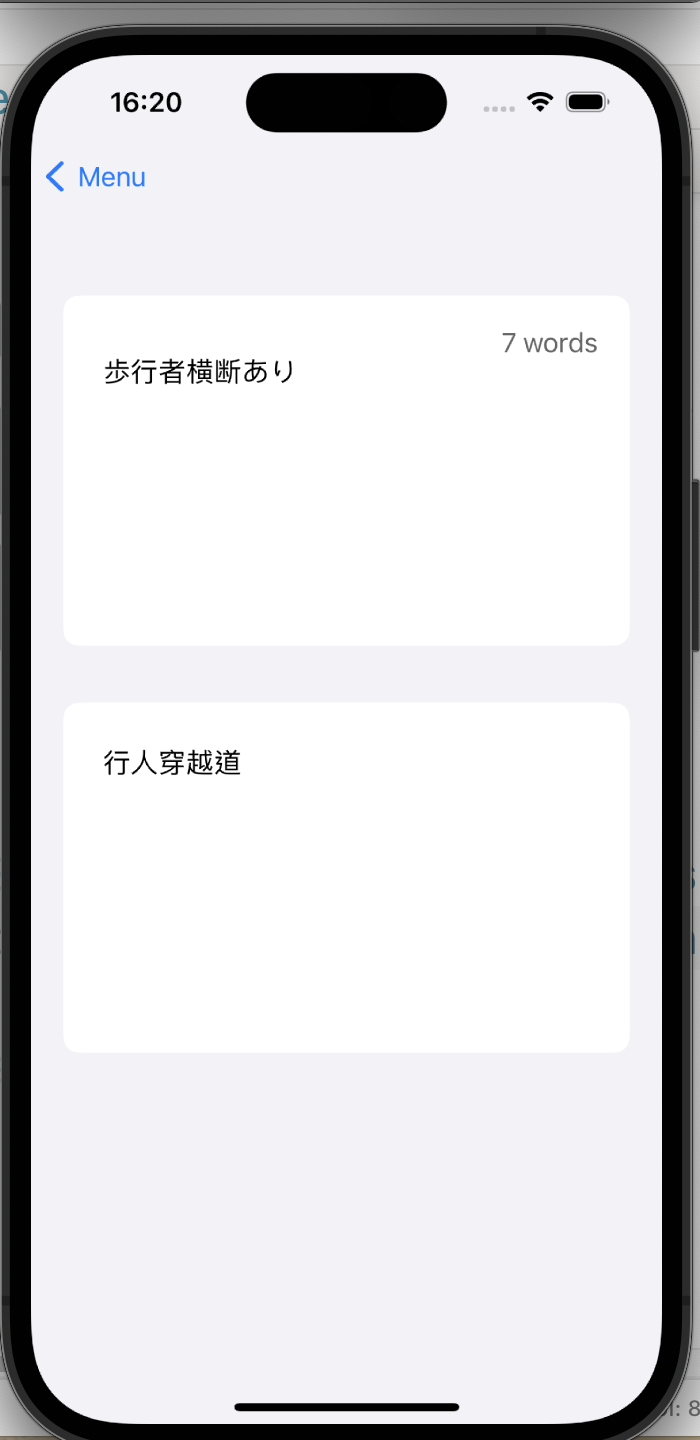
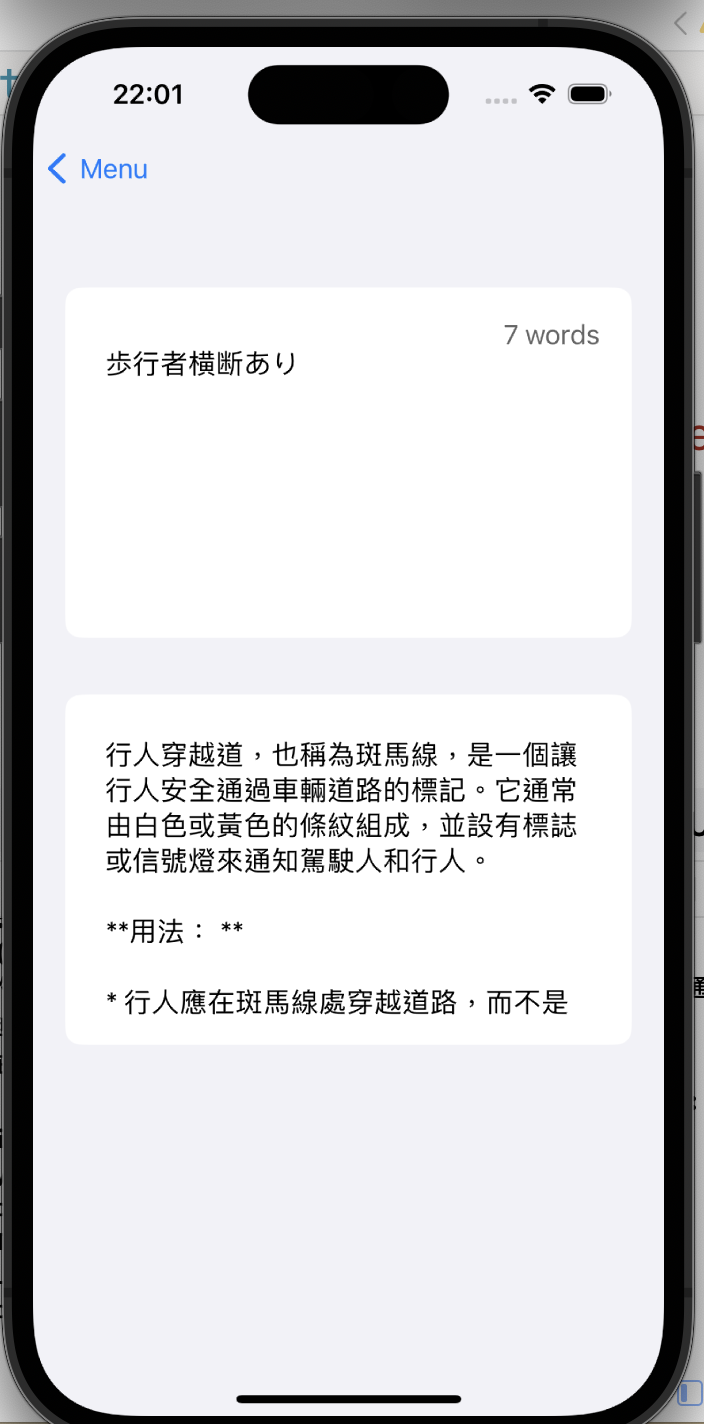
finish translation

diff --git a/Anki/View/Settings/SettingsView.swift b/Anki/View/Settings/SettingsView.swift
@@ -13,26 +13,40 @@ struct SettingsView: View {
 	
     var body: some View {
         Form {
-			Picker(selection: $settingViewModel.settings.schemeMode) {
-                Text("Auto").tag(0)
-                Text("Light").tag(1)
-                Text("Dark").tag(2)
-            } label: {
-                Text("Appearance")
-            }
-			Picker(selection: $settingViewModel.settings.sortMethod) {
-				Text("Front").tag(0)
-				Text("Back").tag(1)
-				Text("Added time").tag(2)
-			} label: {
-				Text("Sort by")
+			Section("Flashcards") {
+				Picker(selection: $settingViewModel.settings.schemeMode) {
+					Text("Auto").tag(0)
+					Text("Light").tag(1)
+					Text("Dark").tag(2)
+				} label: {
+					Text("Appearance")
+				}
+				Picker(selection: $settingViewModel.settings.sortMethod) {
+					Text("Front").tag(0)
+					Text("Back").tag(1)
+					Text("Added time").tag(2)
+				} label: {
+					Text("Sort by")
+				}
+				
+				Button(action: {
+					settingViewModel.setIsExport(true)
+				}) {
+					Text("Export CSV File")
+				}
 			}
-
-            Button(action: {
-				settingViewModel.setIsExport(true)
-			}) {
-                Text("Export CSV File")
-            }
+			
+			Section("Translation") {
+				Picker(selection: $settingViewModel.settings.translateTo) {
+					Text("English").tag(TranslateTo.english.rawValue)
+					Text("繁體中文").tag(TranslateTo.tradChinese.rawValue)
+					Text("簡體中文").tag(TranslateTo.simChinese.rawValue)
+					Text("日本語").tag(TranslateTo.japanese.rawValue)
+				} label: {
+					Text("Translate to")
+				}
+				TextField("Gemini API key", text: $settingViewModel.settings.geminiApiKey)
+			}
 		}
 		.alert("Error!", isPresented: $settingViewModel.showAlert, actions: {
 			Button("Ok", role: .none, action: {

diff --git a/Anki/View/Translate/TranslationService.swift b/Anki/View/Translate/TranslationService.swift
@@ -1,0 +1,52 @@
+//
+//  ApiManager.swift
+//  Anki
+//
+//  Created by 陳奕利 on 2024/4/22.
+//
+
+import Foundation
+
+class TranslationService {
+	static func getTraslatedResult(prompt: String, completion: @escaping(Result<ResponseDataType, Error>)->Void) {
+		let apiKey = UserDefaults.standard.string(forKey: "geminiApiKey")
+		guard let url = URL(string: "https://generativelanguage.googleapis.com/v1beta/models/gemini-pro:generateContent?key=\(apiKey ?? "")") else {
+			print("Invalid URL")
+			return
+		}
+		
+		var request = URLRequest(url: url)
+		let json = [
+			"contents": [
+				"parts": [
+					"text": prompt
+				]
+			]
+		]
+		let jsonData = try? JSONSerialization.data(withJSONObject: json)
+		request.httpMethod = "POST"
+		request.setValue("\(String(describing: jsonData?.count))", forHTTPHeaderField: "Content-Length")
+		request.setValue("application/json", forHTTPHeaderField: "Content-Type")
+		request.httpBody = jsonData
+
+		
+		URLSession.shared.dataTask(with: request) { data, _, error in
+			if let error = error {
+				completion(.failure(error))
+				return
+			}
+			guard let data = data else {
+				completion(.failure(CustomError.noData))
+				return
+			}
+			do {
+				let res = try JSONDecoder().decode(ResponseDataType.self, from: data)
+				print(res)
+				completion(.success(res))
+			} catch let error {
+				completion(.failure(error))
+			}
+		}.resume()
+		
+	}
+}

diff --git a/Anki/View/Translate/TranslateViewModel.swift b/Anki/View/Translate/TranslateViewModel.swift
@@ -22,10 +22,15 @@ class TranslateViewModel: ObservableObject {
     var state: ViewState = .idle
 
     private var cancellable: AnyCancellable?
+	
+	private func getPrompt() -> String {
+		let translateTo = UserDefaults.standard.string(forKey: "translateTo")
+		return "請用\(translateTo ?? "英文")翻譯並解釋「\(text)」，並說明使用情境。"
+	}
 
     func fetchData() {
         state = .loading
-        TranslationService.getTraslatedResult(text: text) { result in
+        TranslationService.getTraslatedResult(prompt: getPrompt()) { result in
             switch result {
             case let .success(data):
                 DispatchQueue.main.async {

diff --git a/Anki/View/Translate/TextEditorWithPlaceholder.swift b/Anki/View/Translate/TextEditorWithPlaceholder.swift
@@ -37,7 +37,11 @@ struct TextEditorWithPlaceholder: View {
 					TextEditor(text: $viewModel.text)
                         .onChange(of: viewModel.text) { _ in
                             if viewModel.text.last?.isNewline == .some(true) {
+								// 移除最後一個\n
 								viewModel.text.removeLast()
+								if viewModel.text.isEmpty {
+									return
+								}
                                 isFocused = false
 								viewModel.fetchData()
                             }

diff --git a/Anki/View/Settings/model/SettingModel.swift b/Anki/View/Settings/model/SettingModel.swift
@@ -1,0 +1,16 @@
+//
+//  SettingModel.swift
+//  Anki
+//
+//  Created by 陳奕利 on 2024/4/21.
+//
+
+import Foundation
+import SwiftUI
+
+struct SettingModel {
+    @AppStorage("sortMethod") var sortMethod = 0
+    @AppStorage("schemeMode") var schemeMode = 0
+    @AppStorage("translateTo") var translateTo: String = TranslateTo.english.rawValue
+    @AppStorage("geminiApiKey") var geminiApiKey = ""
+}

diff --git a/Anki/View/Settings/model/TranslateTo.swift b/Anki/View/Settings/model/TranslateTo.swift
@@ -1,0 +1,15 @@
+//
+//  TranslateTo.swift
+//  Anki
+//
+//  Created by 陳奕利 on 2024/4/22.
+//
+
+import Foundation
+
+enum TranslateTo: String, CaseIterable {
+	case english = "英文"
+	case tradChinese = "繁體中文"
+	case simChinese = "簡體中文"
+	case japanese = "日本語"
+}
